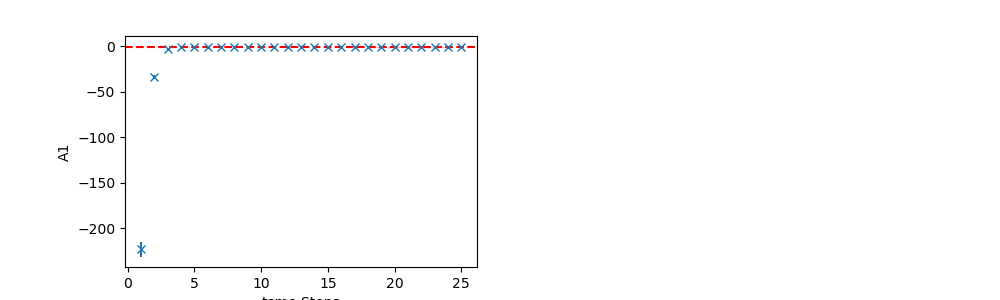
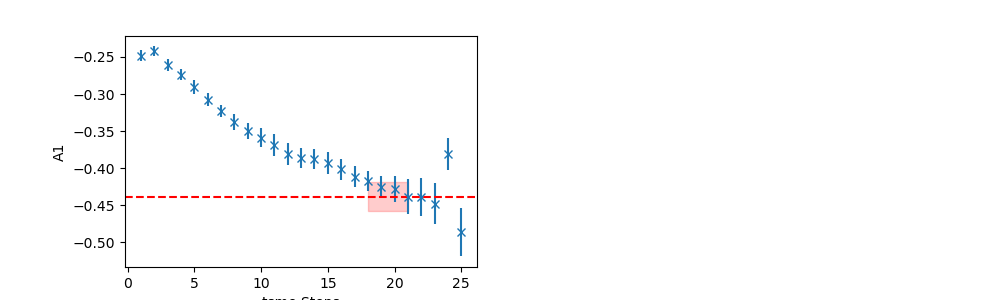
Reran A1 with new fit ranges and nconfs

diff --git a/M2/A1-Av-improved.py b/M2/A1-Av-improved.py
@@ -94,7 +94,8 @@ mb = 2.2526141357421965
 md0 = 0.9122552490234405
 pre = -1/(mb+md)
 
-nconf=889
+#nconf=889
+nconf=800
 dt=26
 ts=64
 
@@ -172,7 +173,7 @@ np.savetxt('./A1/A1-nsq{}.txt'.format(nsq), np.c_[np.absolute(avn0), errn0])
 ###############################################################################
 
 reg_low=18
-reg_up=25
+reg_up=22
 
 #Covarianze matrix (without prefactor, not squarrooted)
 cut=ts/2-1-reg_up
